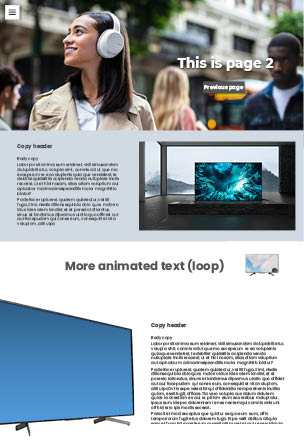
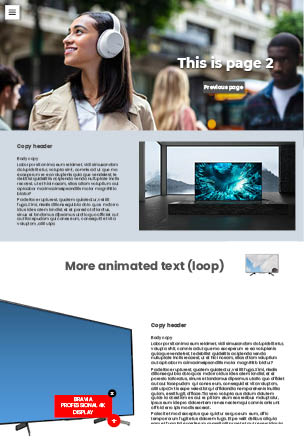
hotspot added

Changed region(s): [[0.1776, 0.8784, 0.4145, 0.9662]]

diff --git a/index.html b/index.html
@@ -161,6 +161,32 @@ document.head.querySelector('meta[property="og:url"]').content=ogURL;
         <img class="in5-parallax-bg-img" alt="parallax image" src="assets/images/blank.gif" data-src="assets/images/item1352.png"/>
       </div>
       <img src="assets/images/blank.gif" class="pageItem hd" alt="Rectangle" style="left:1016px !important;top:1086px !important;" id="item1357" data-src="assets/images/item_1357.png"/>
+      <button class="pageItem hidden" id="item2003" data-id="2003" name="hotspot 2" alt="hotspot 2">
+        <div class="pageItem state btn-off">
+          <div id="item2005" class="pageItem" alt="Rectangle">&nbsp;</div>
+          <img src="assets/images/blank.gif" class="pageItem hd" alt="BRAVIA PROFESSIONAL 4K DISPLAY" style="left:6px !important;" id="item2006" data-src="assets/images/item_2006.png"/>
+        </div>
+      </button>
+      <button class="pageItem" id="item2030" data-id="2030" name="hotspot button 2" data-click-show="2030,2003,2057" alt="hotspot button 2">
+        <div class="pageItem state btn-off">
+          <div class="pageItem" alt="Oval" id="item2033">
+            <svg xmlns="http://www.w3.org/2000/svg" version="1.1" width="60" height="60" style="">
+              <ellipse cx="29.56" cy="29.56" rx="29.56" ry="29.56" fill="#ff0000"/>
+            </svg>
+          </div>
+          <img src="assets/images/blank.gif" class="pageItem hd" alt="+" style="left:6px !important;top:5px !important;" id="item2034" data-src="assets/images/item_2034.png"/>
+        </div>
+      </button>
+      <button class="pageItem hidden" id="item2057" data-id="2057" name="hotspot button 3" data-click-hide="2003,2057" alt="hotspot button 3">
+        <div class="pageItem state btn-off">
+          <div class="pageItem" alt="Oval" id="item2060">
+            <svg version="1.1" width="37" height="37" style="">
+              <ellipse cx="18.26" cy="18.26" rx="18.26" ry="18.26" fill="#000"/>
+            </svg>
+          </div>
+          <img src="assets/images/blank.gif" class="pageItem hd" alt="x" style="left:4px !important;top:3px !important;" id="item2061" data-src="assets/images/item_2061.png"/>
+        </div>
+      </button>
       <div class="pageItem mso" data-id="1983" id="item1983" name="compact_menu" alt="compact_menu">
         <div class="pageItem state active" name="closed">
           <button class="pageItem open_btn" id="item1870" data-id="1870" name="open_menu_btn" data-click-state="1983:1" alt="open_menu_btn">

diff --git a/assets/css/pages.css b/assets/css/pages.css
@@ -980,6 +980,33 @@ html[data-dir="rtl"] nav#page-nav > #backBtn, html:not([data-dir="rtl"]) nav#pag
 	top:1139px !important;
 }
 
+#item2005 {
+	width:259px !important;
+	height:101px !important;
+	background:#ff0000;
+}
+
+#item2003 {
+	width:259px !important;
+	height:101px !important;
+	left:245px !important;
+	top:1778px !important;
+}
+
+#item2030 {
+	width:59px !important;
+	height:59px !important;
+	left:483px !important;
+	top:1863px !important;
+}
+
+#item2057 {
+	width:37px !important;
+	height:37px !important;
+	left:487px !important;
+	top:1752px !important;
+}
+
 #item662 {
 	width:162px !important;
 	height:177px !important;
